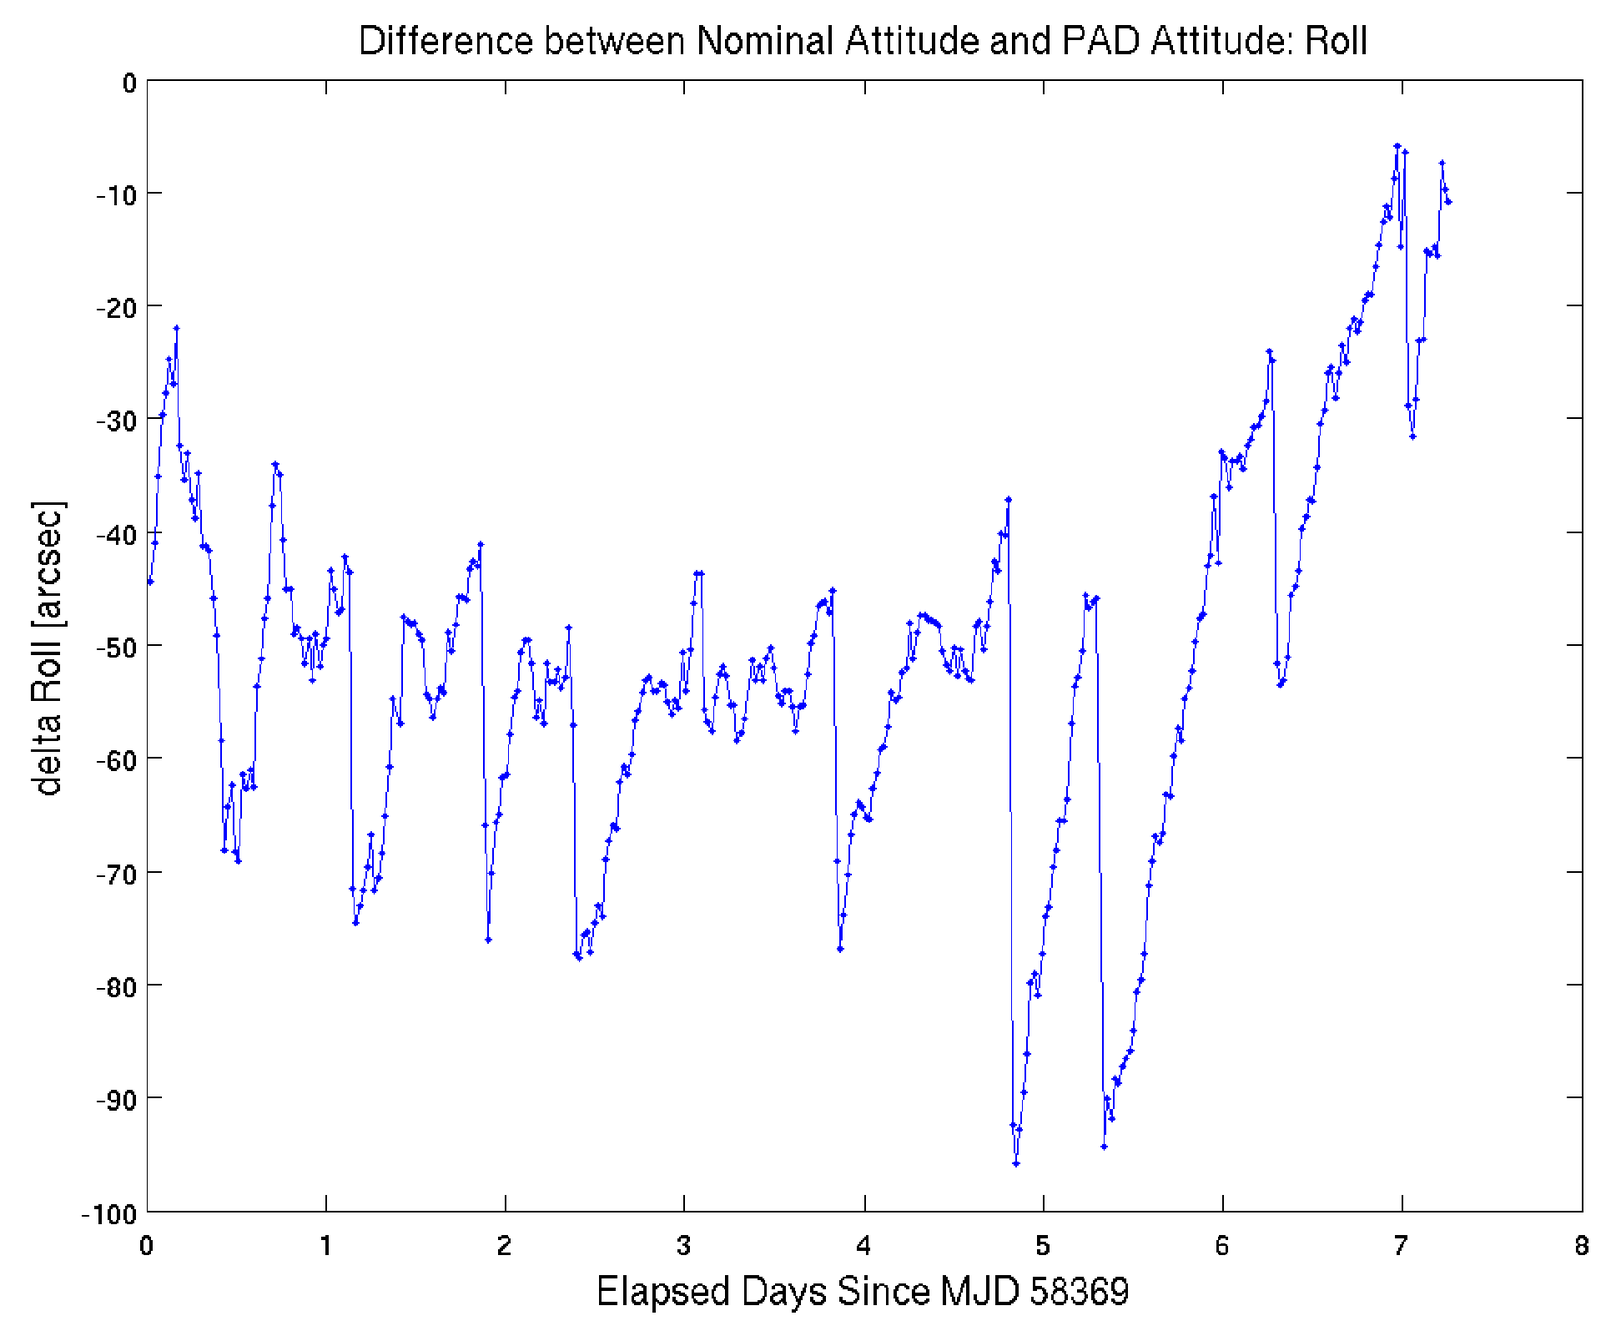
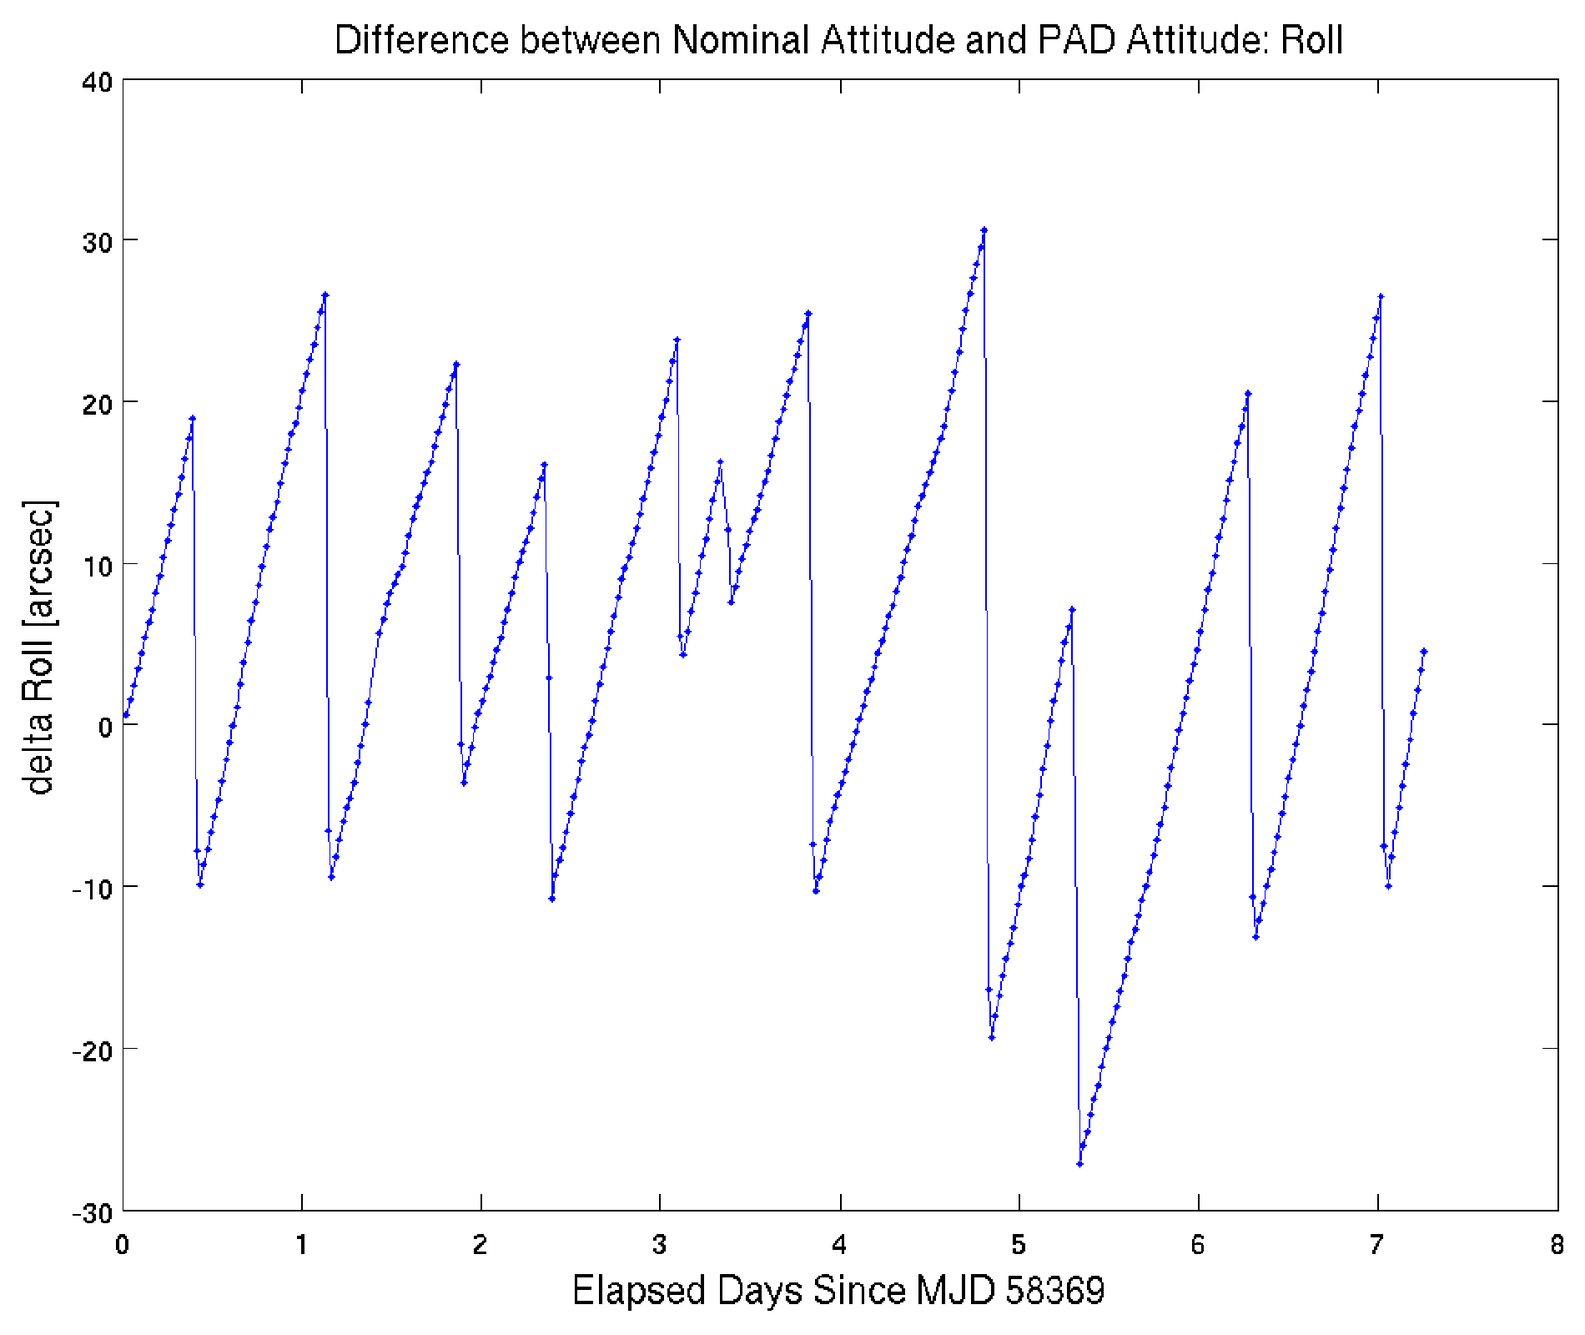
Draft complete

diff --git a/content/pages/k2-observing/k2-data-release-notes.md b/content/pages/k2-observing/k2-data-release-notes.md
@@ -25,7 +25,7 @@ including information on field pointing, target selection, observation times and
 <ul>
 <li>  44,224 long cadence (LC) targets, including 11,495 galaxy targets.</li>
 <li>  222 short cadence (SC) targets.</li>
-<li>  31 moving objects (including Neptune) were tiled with LC custom strip apertures. 15 bright stars were assigned 24-pixel diameter LC disk apertures to capture the point spread function wings. 6 large galaxies were assigned 35-pixel diameter LC apertures. See the <a href="images/release-notes/c19/kplr2018316185300_c19_caf.csv">csv file that maps</a> the custom aperture number to the target name to find the apertures for a specific target.</li>
+<li>  31 moving objects (including Neptune) were tiled with LC custom strip apertures (see below for details).</li>
 </ul>
 
 <b><i>Full Frame Images (FFI)</i></b>
@@ -40,15 +40,15 @@ including information on field pointing, target selection, observation times and
 <li>Long Cadence Number: 167333</li>
 <li>Short Cadence Number: 5008450</li>
 </ul>
-NEED TO UPDATE TIMESTAMPS!!!!
-<b><i>Last cadence</i></b>
+
+<b><i>Last cadence<sup>†</sup></i></b>
 <ul>
 <li>End Time: 2018-09-26 00:23:59 UTC</li>
-<li>Long Cadence Number: 168623<sup>†</sup></li>
+<li>Long Cadence Number: 168623</li>
 <li>Short Cadence Number: 5047179</li>
 </ul>
 
-<sup>†</sup>The last collected cadence was 168624, but was discarded due to data quality issues.<br><br>
+<sup>†</sup>The last collected long cadence was 168624 (and corresponding short cadences 5047180&ndash;5047209), but were discarded in processing due to quality issues.<br><br>
 
 <b><i>Most Recent Processing Version</i></b>
 <ul>
@@ -88,39 +88,40 @@ were selected.</i>
 
 </div>
 
-
+<br>
 
 <h2>Features and Events</h2>
 
-***Overlap with C3 and C12***
+***Overlap with C3, C12, and the Engineering Test Run***
 
-The C19 field significantly overlaps with Campaign 12 and partially with Campaign 3. Many targets observed in C19 were also observed in C3 and/or C12,thus establishing a several year temporal baseline that provides unique science opportunities.
-
-<br>
-
-***Galaxies***
-
-There are 11,495 galaxies targeted in the C19 field of view; all but six used standard aperture masks. The six large galaxies were covered with 35-pixel diameter large circular custom masks.
+As shown in Figure C19-FOV, C19 field significantly overlaps with Campaign 12 and the Engineering Test Run, and partially overlaps with Campaign 3. Many targets observed in C19 were also observed in C3 and/or C12, thus establishing a several year temporal baseline that provides unique science opportunities.
 
 <br>
 
-***Solar System Objects***
+***Custom Targets***
 
-The C19 field of view includes 31 moving objects composed of 9 Asteroids, 20 faint Trans-Neptunian Objects, the planet Neptune, and the periodic comet [2P/Encke](https://en.wikipedia.org/wiki/Comet_Encke), all observed in long cadence.
+There were 11,495 galaxies targeted in the C19 field of view; all but six used standard aperture masks. The six large galaxies were covered with 35-pixel diameter large circular custom masks.
 
-Neptune was also observed in short cadence approximately 20 days on each side of the stationary point of Neptune. Just as when Neptune was observed in [Campaign 3](k2-approved-programs.html#campaign-3), Neptune is expected to saturate the detector, resulting in spikes in the column direction as Neptune moves across the detector. The custom aperture numbers associated with Neptune are 200262135&ndash;200262467 for long cadence and 200262489&mdash;200262493 for short cadence. These observations were taken as part of Guest Observer Programs GO19009 (PI:Garcıa-Munoz), GO19061 (PI:Trafton), and GO19069 (PI:Smith).
+There were 15 bright stars that were assigned 24-pixel diameter LC disk apertures to capture the wings of the point spread function.
+
+The C19 field of view includes 31 moving objects composed of 9 Asteroids, 20 faint Trans-Neptunian Objects, the planet Neptune, and the periodic comet [2P/Encke](https://en.wikipedia.org/wiki/Comet_Encke), all observed in long cadence. Neptune was also observed in short cadence approximately 20 days on each side of the stationary point of Neptune. Just as when Neptune was observed in [Campaign 3](k2-approved-programs.html#campaign-3), Neptune is expected to saturate the detector, resulting in spikes in the column direction as Neptune moves across the detector. The custom aperture numbers associated with Neptune are 200262135&ndash;200262467 for long cadence and 200262489&mdash;200262493 for short cadence. These observations were taken as part of Guest Observer Programs GO19009 (PI:Garcıa-Munoz), GO19061 (PI:Trafton), and GO19069 (PI:Smith).
+
+See the <a href="images/release-notes/c19/kplr2018316185300_c19_caf.csv">csv file that maps</a> the custom aperture number to the target name to find the apertures for a specific target.
 
 <br>
 
-***Erratic Pointing Due to Fuel Exhaustion and End of Flight***
+***Erratic Pointing Due to Fuel Exhaustion***
 
 Due to an anomalous drop in fuel pressure, the Kepler team [paused the science observations for K2 Campaign 18](kepler-fuel-status-update-faq.html) about 50 days into the campaign and then a month later [successfully downloaded the C18 data](k2-campaign-18-downlink-successful.html). At the start of Campaign 19 the spacecraft configuration was [modified in order to adapt to a change in thruster performance](k2-campaign-19-status-update.html) due to the low fuel pressure. Observations for C19 were collected for about a month, at which point the Kepler team received data showing that the spacecraft no longer had sufficient remaining fuel to point precisely enough to gather useful scientific data, and [observations were again paused](k2-campaign-19-ended-to-downlink-data.html) and then later [successfully downloaded](k2-campaign-19-raw-data-available.html). While [an attempt was made to start Campaign 20](kepler-spacecraft-update.html), without sufficient fuel [end-of-flight was declared the spacecraft retired] (https://www.nasa.gov/press-release/nasa-retires-kepler-space-telescope-passes-planet-hunting-torch). Thus Campaign 19 is the final campaign for which scientific data is available.
 
-Figure C19-Pointing shows the pointing performance of the spacecraft over the duration of Campaign 19 via the observed deviation of targets from their expected location as a function of long cadence number &mdash; the blue line shows the deviation affecting all targets from displacement of the spacecraft boresight, while the red line shows the maximum deviation at the edge of the field of view due to the roll angle. As can be seen, for the first ~8.5 days, from long cadence 167333&ndash;167742 (short cadences 5008450&ndash;5020749), the spacecraft boresight had significant deviation from nominal, and a result nearly all targets were completely outside their observed pixel stamps &mdash; it is not expected that useable photometric data can be obtained for this time region for the pre-selected Campagin 19 targets. From long cadence 167743&ndash;168097 (short cadences 5020750&ndash;5031399) the pointing due to boresight and roll was nominal compared to other K2 campaigns, and thus this ~7 day region should provide nominal K2 data. From long cadence 168098&ndash;168623 (short cadence 5031400&ndash;5047179) the boresight and roll fluctuated erratically &mdash; the 'well-behaved' portions of this ~11 day should provide useable photometric data for most targets with careful analysis.
+Figure C19-Pointing-1 shows the pointing performance of the spacecraft over the duration of Campaign 19 via the observed deviation of targets from their expected location as a function of long cadence number &mdash; the blue line shows the deviation affecting all targets from displacement of the spacecraft boresight, while the red line shows the maximum deviation at the edge of the field of view due to the roll angle. Figure C19-Pointing-2 similarly shows the combined motion of a target at the edge of the field of view in science pixels, as well as some important flags. Note that neither FFI was captured while in Fine Point and have noticeably different pointings (see Figure C19-FFI above).
+
+As can be seen in these figures, for the first ~8.5 days, from long cadence 167333&ndash;167742 (short cadences 5008450&ndash;5020749), the spacecraft boresight was significantly off-nominal, and as a result nearly all targets were completely outside their observed pixel stamps, which had only 2- or 3-pixel halos &mdash; it is not expected that useable photometric data can be obtained for this time region for the pre-selected Campagin 19 targets. From long cadence 167743&ndash;168097 (short cadences 5020750&ndash;5031399) the pointing due to boresight and roll was nominal compared to other K2 campaigns, and thus this ~7 day region should provide nominal K2 data. From long cadence 168098&ndash;168623 (short cadence 5031400&ndash;5047179) the boresight and roll fluctuated erratically &mdash; the 'well-behaved' portions of this ~11 day should provide useable photometric data for most targets with careful analysis.
+
 
 <div class="thumbnail" style="width: 100%;">
 <div class="caption">
-<i>Figure C19-Pointing: C19 Pointing history. </i>
+<i>Figure C19-Pointing-1: The C19 pointing history, shown by the motion of the boresight and the roll motion at the edge in science pixels.</i>
 </div>
 <a href="images/release-notes/c19/c19_pointing_history.png">
 <img src="images/release-notes/c19/c19_pointing_history.png" class="img-responsive" alt="The pointing history for C19">
@@ -128,23 +129,23 @@ Figure C19-Pointing shows the pointing performance of the spacecraft over the du
 </div>
 </div>
 
+<div class="thumbnail" style="width: 100%;">
+<div class="caption">
+<i>Figure C19-Point-1: The C19 pointing history, shown by the motion of experienced by a target at the edge of the field of view in science pixels.</i>
+</div>
+<a href="images/release-notes/c19/c19_pointing_flags.png">
+<img src="images/release-notes/c19/c19_pointing_flags.png" class="img-responsive" alt="The pointing-related flags for C19">
+</a>
+</div>
+</div>
 
 <br>
 
-***Pointing and Roll Performance***
+***Pointing and Roll Performance During the Central ~7 days***
 
-Examining only the central ~7 days of continuously nominal pointing (long cadences 167743&ndash;168097; short cadences 5020750&ndash;5031399), the C19 pointing and roll behavior are higher than other K2 campaigns. The pipeline-calculated maximum distance between the derived and nominal positions for any target (the "maximum attitude residual", or MAR) for C19 in this time period is under 4.0 pixels, and under 3.5 for most of the ~7 day duration &mdash; given the 3-pixel limit accommodated by the aperture halos this eans most targets are expected to remain in their apertures during this ~7 day duration, but targets close to the edge of the field-of-view may have significant flux fall outside thier observed apertures.
+Examining only the central ~7 days of continuously nominal pointing (long cadences 167743&ndash;168097; short cadences 5020750&ndash;5031399), the C19 pointing and roll behavior are very well behaved compared to most other K2 campaigns. The pipeline-calculated maximum distance between the derived and nominal positions for any target (the "maximum attitude residual", or MAR) for C19 in this time period is under 1.5 pixels, well under the 3-pixel limit accommodated by the aperture halos.
 
-
-
-Users are encouraged to discard long cadences 162613 &ndash; 162627 (short cadences 4866897 &ndash; 4867246) due to this pointing excursion. These cadences are flagged using QUALITY flag bit #3. Similarly, while not visible in the plots below, the very last long cadence of the campaign, 164458 (short cadences 4922216 &ndash; 4922230) had a very large pointing excursion and are also flagged using QUALITY flag bit #3.
-
-As mentioned in the C14 release notes, a change in the on-board fine point fault logging threshold
-results in additional cadences being flagged as "Spacecraft is not in fine point"
-(QUALITY flag bit #16, decimal=32768). As a reminder, the project recommends that starting with C15,
-users look to QUALITY flag bit #3 as an accurate indicator of poor spacecraft pointing.
-
-<div class="thumbnail" style="width: 50%;display: inline-block;">
+<div class="thumbnail" style="width: 49%;display: inline-block;">
 <div class="caption">
 <i>Figure C19-Roll-Error: the roll-error between the photometrically derived attitude (PAD) and the nominal pointing plotted against time for C19.</i>
 <a href="images/release-notes/c19/c19_pad_pdq_attitude_roll.png">
@@ -153,7 +154,7 @@ users look to QUALITY flag bit #3 as an accurate indicator of poor spacecraft po
 </div>
 </div>
 
-<div class="thumbnail" style="width: 48%;display: inline-block;">
+<div class="thumbnail" style="width: 49%;display: inline-block;">
 <div class="caption">
 <i>Figure C19-MAR: the maximum distance between the photometrically derived attitude (PAD) and the nominal position plotted against time for C19.</i>
 <a href="images/release-notes/c19/c19_pad_pdq_attitude_mar.png">
@@ -165,44 +166,60 @@ users look to QUALITY flag bit #3 as an accurate indicator of poor spacecraft po
 <br>
 
 
+<h2>Data Quality and Processing Notes</h2>
+
+***Special Processing Parameters***
+
+In order to successfully process this unique campaign with the Kepler pipeline, and produce useful data of sufficient quality, the following approach was taken:
+
+<ul>
+
+<li> The final long cadence observed by the spacecraft (168624) and the corresponding short cadences (5047180&ndash;5047209) were discarded due to data quality issues.<br>
+
+<li> For the rest of the campaign (long cadences 167333&ndash;168623 and short cadences 5008450&ndash;5047179), instead of the "Dynablack" calibration method that has been used for all other campaigns processed as part of the <a href="k2-uniform-global-reprocessing-underway.html">global uniform reprocessing effort</a>, the simpler CAL method was used to calibrate pixels, due to the short duration of the observations. Rolling band flags (see the <a href="k2-uniform-global-reprocessing-underway.html">news post on global reprocessing</a>) were still able to be computed and provided.<br>
+
+<li> When producing the raw / simple aperture (PA) lightcurves, unlike all other campaigns processed as part of the <a href="k2-uniform-global-reprocessing-underway.html">global uniform reprocessing effort</a>, cadences marked as "Spacecraft is not in fine point" (QUALITY flag bit #16, decimal=32768) were discarded. This is illustrated in Figure C19-Pointing-2.<br>
+
+<li> When producing the systematic-corrected (PDC) lightcurves, the cadence range was restricted to the central ~7 days of continuously stable pointing (long cadences 167743&ndash;168097 and short cadences 5020750&ndash;5031399). This is illustrated in Figure C19-Pointing-1. The corresponding time range is 2018-09-08 00:24:52 UTC to 2018-09-15 06:32:00 UTC.<br>
+
+</ul>
+
+As a result, users will have calibrated pixels for nearly the entire campaign, raw / simple aperture lightcurves (PA or SAP_FLUX) for the last ~2/3 of the campaign during times when the spacecraft was in fine point, and systematic-corrected lightcurves (PDC or PDCSAP_FLUX) for the central ~7 days of continuously good pointing.
+
+Users producing their own lightcurves will likely want to make use of the "Spacecraft is not in fine point" (QUALITY flag bit #16, decimal=32768) and/or "Spacecraft is in coarse point" (QUALITY flag bit #3, decimal=4) to remove cadences with significant pointing deviations from nominal, while accounting for the location of their target on the focal plane (and thus observed motion due to spacecraft roll) and aperture size.
+
+<br>
 
 
+***Light Curve Quality***
 
-After investigation and discussion, we'll go with 167333-168623 for CAL and PA.
+Examining only the central ~7 days of continuously nominal pointing (long cadences 167743&ndash;168097; short cadences 5020750&ndash;5031399), the 6-hour spacecraft roll cycle dominates the systematic errors in the C19 simple aperture photometry light curves, similar to other campaigns.
+The pipeline CDPP 12th magnitude noise benchmark for C19 is technically the lowest of any campaign observed to-date &mdash; however, it is not necessarily correct to compare it to other campaigns, as there is only ~7 days of data analyzed here, compared to other campaigns that normally have ~50&ndash;80 days. It is likely that the PDC module is over-fitting the data to some extent. Users are cautioned that astrophysical variations, particularly those of long (~several days or more) period may be artificially suppressed in the PDCSAP_FLUX data. Users can examine the cotrending basis vectors to check and see if they contain data trends that resemble astrophysical signals of interest.
 
----This is the full cadence range, except for the very last cadence, 168624, which has severe issues due to a pointing event occurring during exposure.
+The magnitude dependence of CDPP for the central ~7 days, and its distribution over the focal plane, are shown below. Other CDPP benchmarks can be found in the
+<a href="images/release-notes/c19/c19_bin1.00_sc1.00_CDPP_Summary_19040216.txt">
+table giving 6.5-hr CDPP as a function of magnitude.</a>
 
----The first ~10 days do not have targets in their designated apertures, but may yield valuable data for users, and should cause no ill effects with new parameter settings (Dynablack off and ignore k2GapIfNotFinePntData=true).
+<br>
 
----The last ~100 cadences show excess roll motion, but we confirmed cross-boresight is stable until the second-to-last cadence (168623), and thus will provide valuable data for many targets, especially those towards center of FoV, like Trappist-1, and any PA-COA issues should be mitigated with new parameter k2GapIfNotFinePntData=true.
+<div class="thumbnail" style="width: 90%;">
+<div class="caption">
+<i>Figure C19-CDPP: 6.5-hr CDPP measurements for all targets as a function of Kepler magnitude. Dim targets have poorer overall photometric precision than bright targets, but can look better because the residual sawtooth falls below the noise floor. The saturated targets tend to have the lowest CDPP, but often show a residual sawtooth. </i>
+</div>
+<a href="images/release-notes/c19/c19_logg_CDPP_vs_model.png">
+<img src="images/release-notes/c19/c19_logg_CDPP_vs_model.png" class="img-responsive" alt="CDPP measured for all targets as a function of Kepler magnitude.">
+</a>
+</div>
+</div>
 
----This range selection results in 167978 being the middle cadence, which is a good cadence (no pointing anomalies evident, Trappist-1 image looks great), as is +/-1 cadences from it.
-
-
--The corresponding short cadence range is 5008450--5047179.
-
---- I.e., the exposure start time of the first short cadence, 5008450, is the same as the first long cadence, 167333, and the exposure finish time of the final short cadence, 5047179, is the same as the final long cadence, 168623.
-
---- 5008450 + 30*(168623 - 167333) + 29 = 5047179
-
-PDC and PPA ranges will remain:
-
-167743 -- 168097 for long cadence
-and
-5020750 -- 5031399 for short cadence
-
-corresponding to the central ~7 days of stable pointing. (We expect issues with PDC should the range be extended to include the intermittent data gaps due to pointing excursions toward the end of the campaign.) '
-
-
-
-
-
-DATE-OBS= '2018-09-07T23:51:40.093Z' / TSTART as UTC calendar date              
-DATE-END= '2018-09-23T02:45:42.877Z' / TSTOP as UTC calendar date      
-
-
-
-KSOC-5239 details the common issue that we couldn't get a short-cadence lightcurve for a SC target when there are no non-custom SC targets on a channel. In this case it was KIC 200147465.
+<div class="thumbnail" style="width: 90%;">
+<div class="caption">
+<i>Figure C19-CDPP FocalPlane: 6.5-hr CDPP measured as a function of position on the focal plane, for 12th and 14th magnitude dwarf stars. The photometric precision is generally better near the center of the focal plane where the variations in roll angle produce less pixel motion. All cadences coincident with a definite thruster firing are gapped.</i>
+<a href="images/release-notes/c19/c19_dwarf_CDPP_by_mod_out.png">
+<img src="images/release-notes/c19/c19_dwarf_CDPP_by_mod_out.png" class="img-responsive" alt="CDPP per channel for 12th and 14th magnitude dwarfs">
+</a>
+</div>
+</div>
 
 
 <hr>
@@ -2060,6 +2077,11 @@ were used to distinguish dwarf and giant stars. The C11 CDPP values are in famil
 
 <br>
 
+***Short-Cadence Target With no PDC Flux***
+
+The target EPIC 200147465 (36 Ophiuchi; a bright, nearby triple star system) failed short-cadence PDC processing due to it being a custom target and the only target on its channel. The short-cadence light curve file includes the (nominal and unaffected) SAP flux, but the PDC_SAP flux is all zeros. Note that the long-cadence data for this target is unaffected and is nominal.
+
+<br>
 
 ***Targets With Incomplete FITS Header***
 
@@ -4497,7 +4519,7 @@ The 6-hour spacecraft roll cycle dominates the systematic errors in C0 simple ap
 <hr>
 
 
-# Two-wheel Concept Engineering Testst
+# Two-wheel Concept Engineering Test
 
 
 <h2>At a glance</h2>
